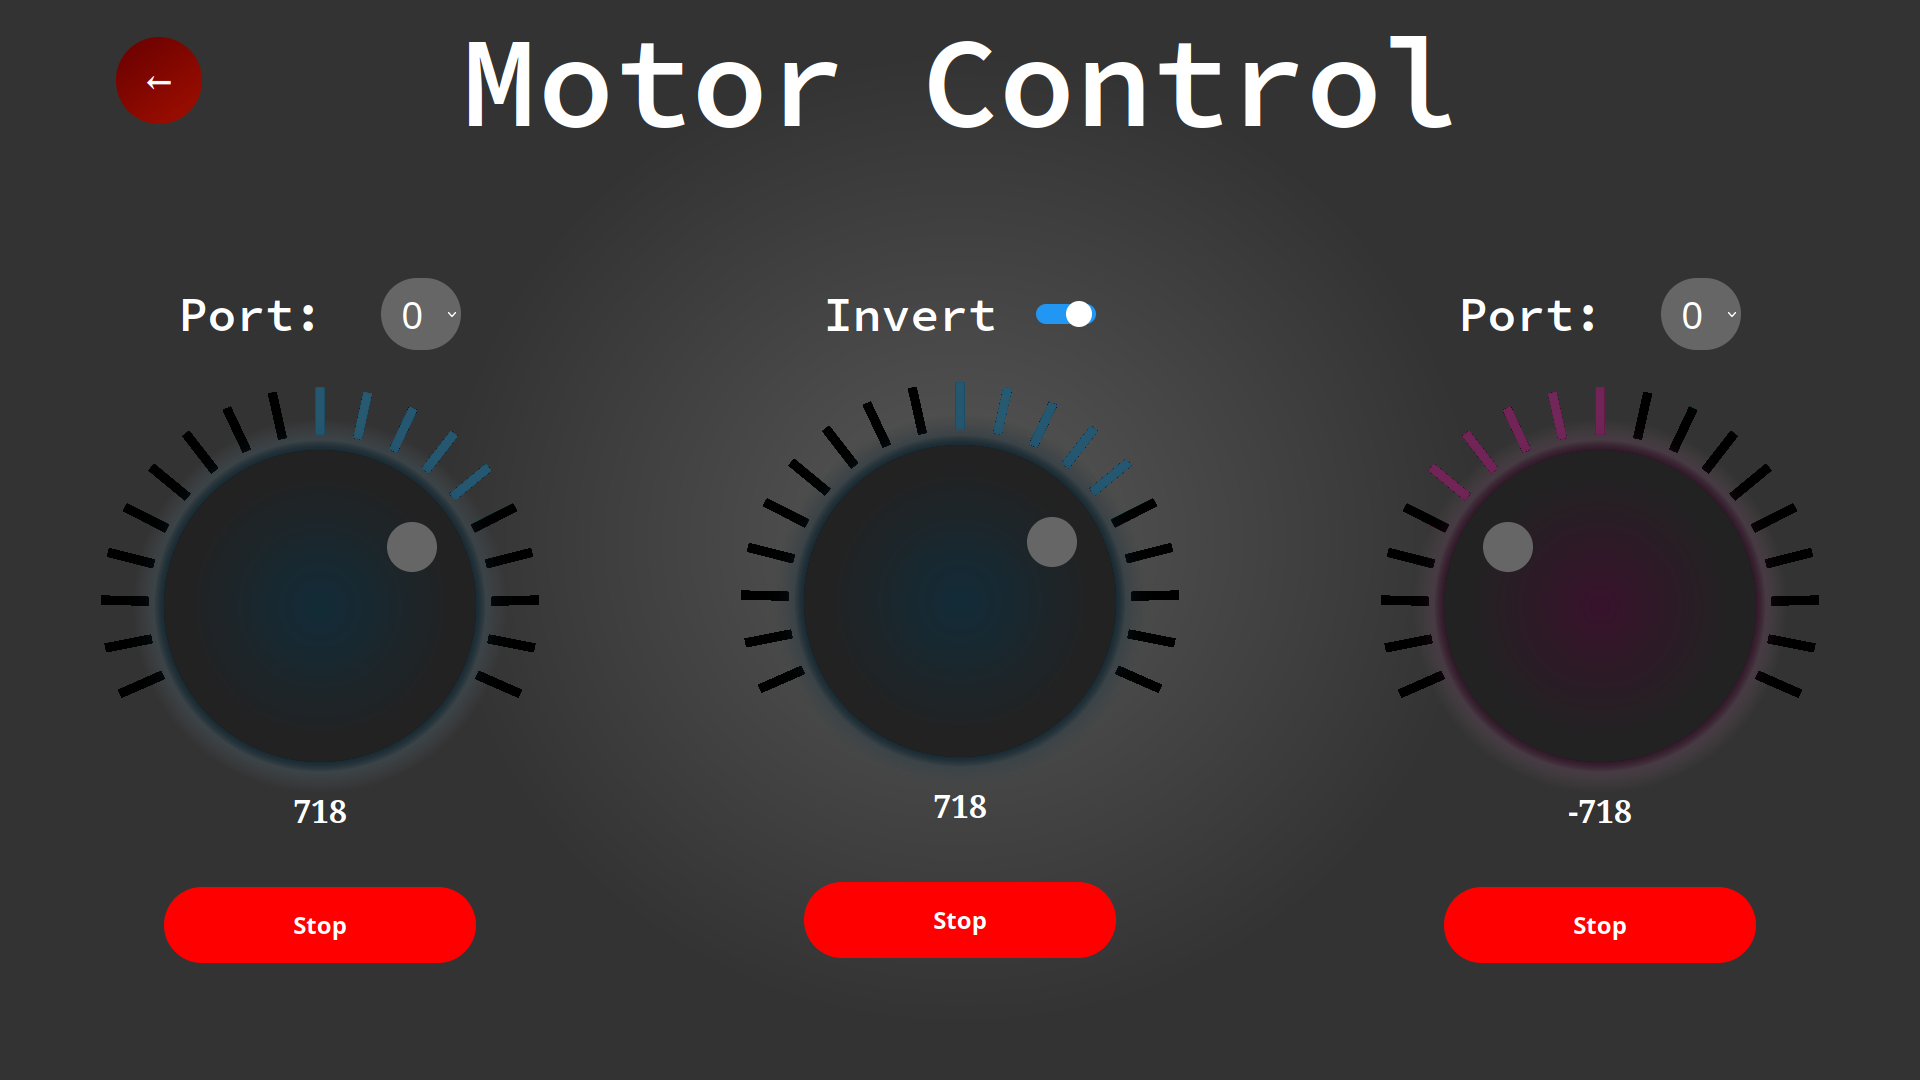
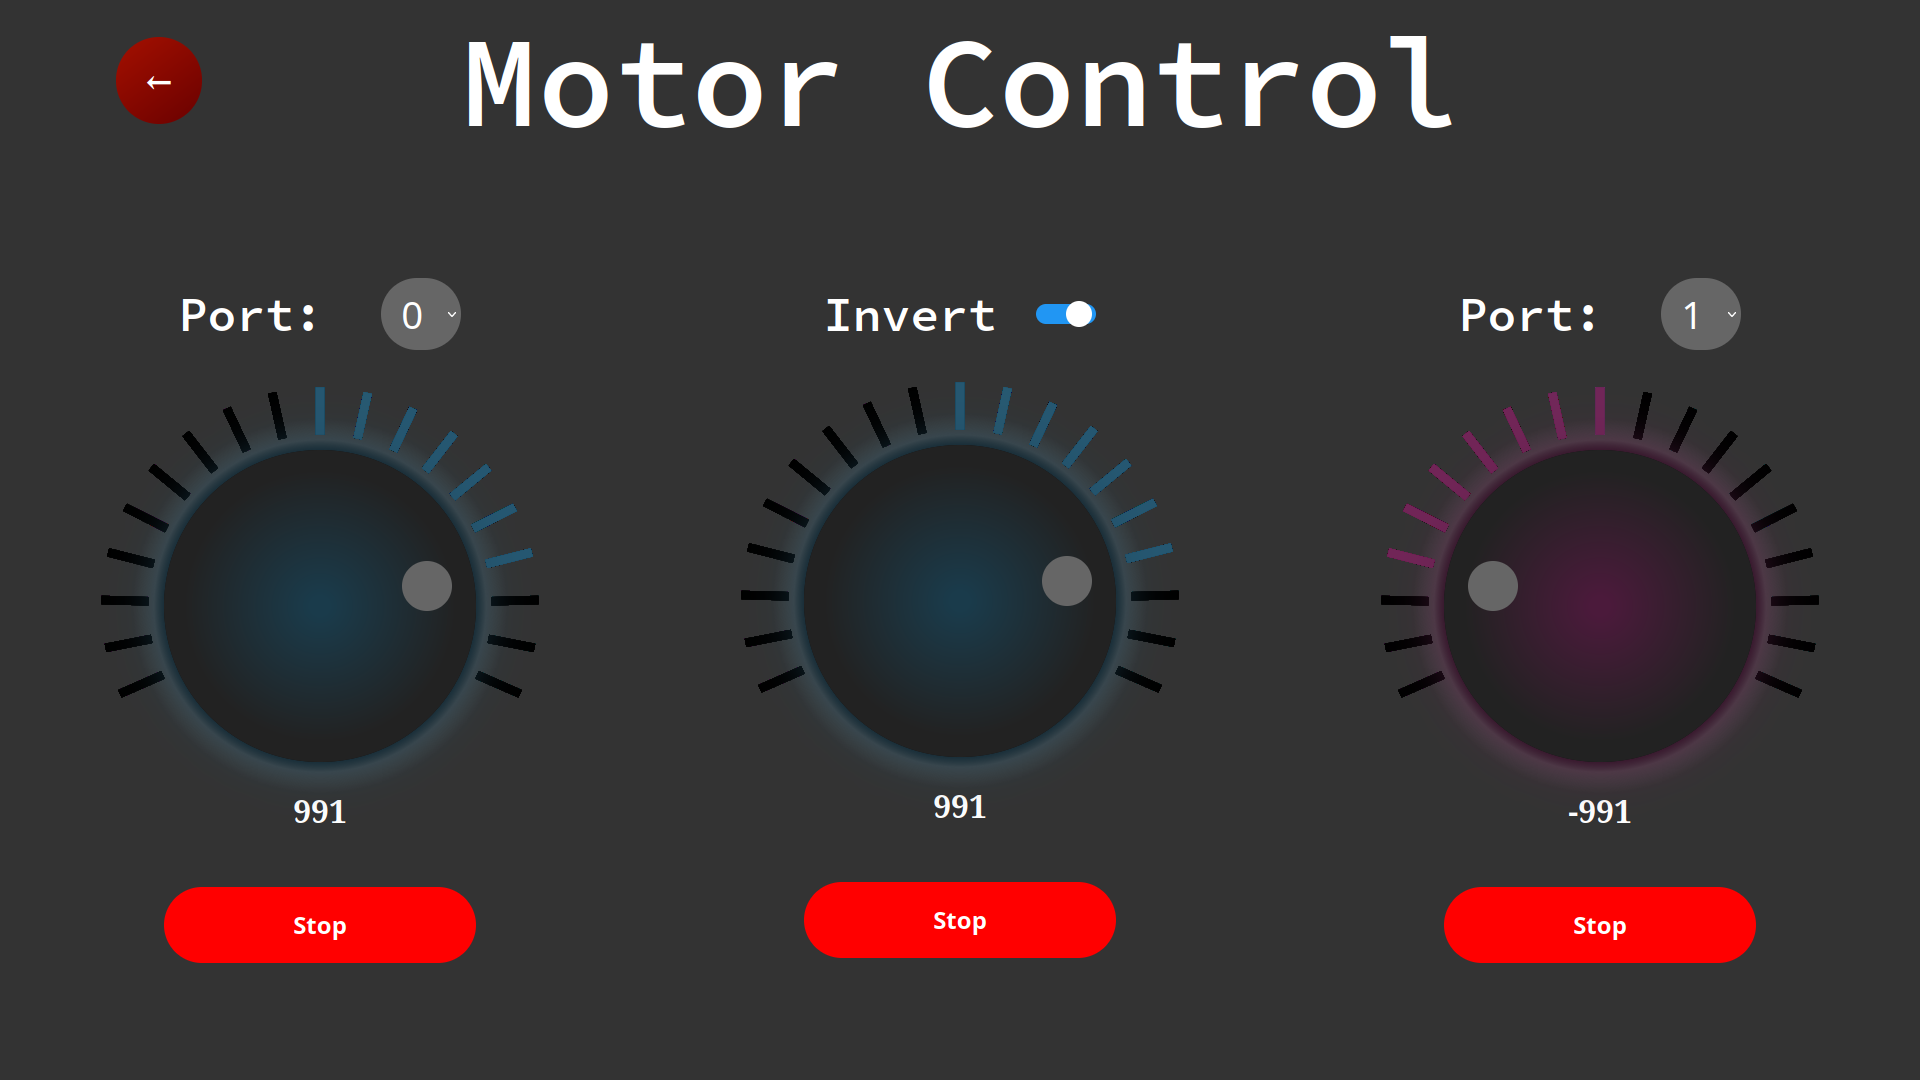
fixed screenshot
Took 2 minutes

diff --git a/css/motors.css b/css/motors.css
@@ -7,9 +7,7 @@ html,body {
 }
 
 body {
-    /*background: #313131;*/
-    background-image: radial-gradient(30% 50%, #555 6%, #333 90%);;
-    background-size: 100%;
+    background: #333;
     display: flex;
     flex-direction: column;
 }

diff --git a/motors.html b/motors.html
@@ -88,7 +88,7 @@
         const data = {
             type: "set",
             request: "motor",
-            port: motorID,
+            port: parseInt(motorID),
             velocity: parseInt(velocity)
         };
 
